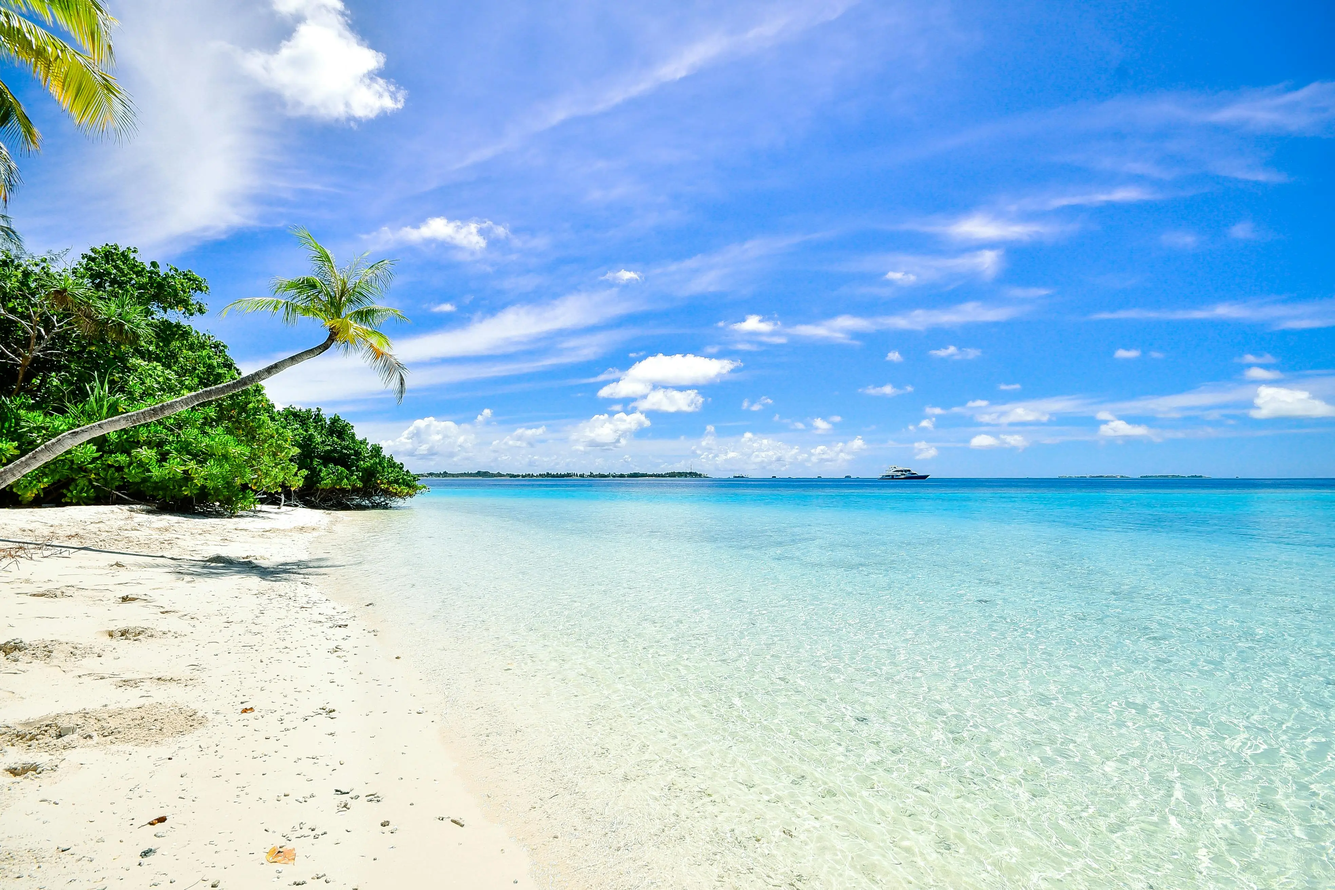
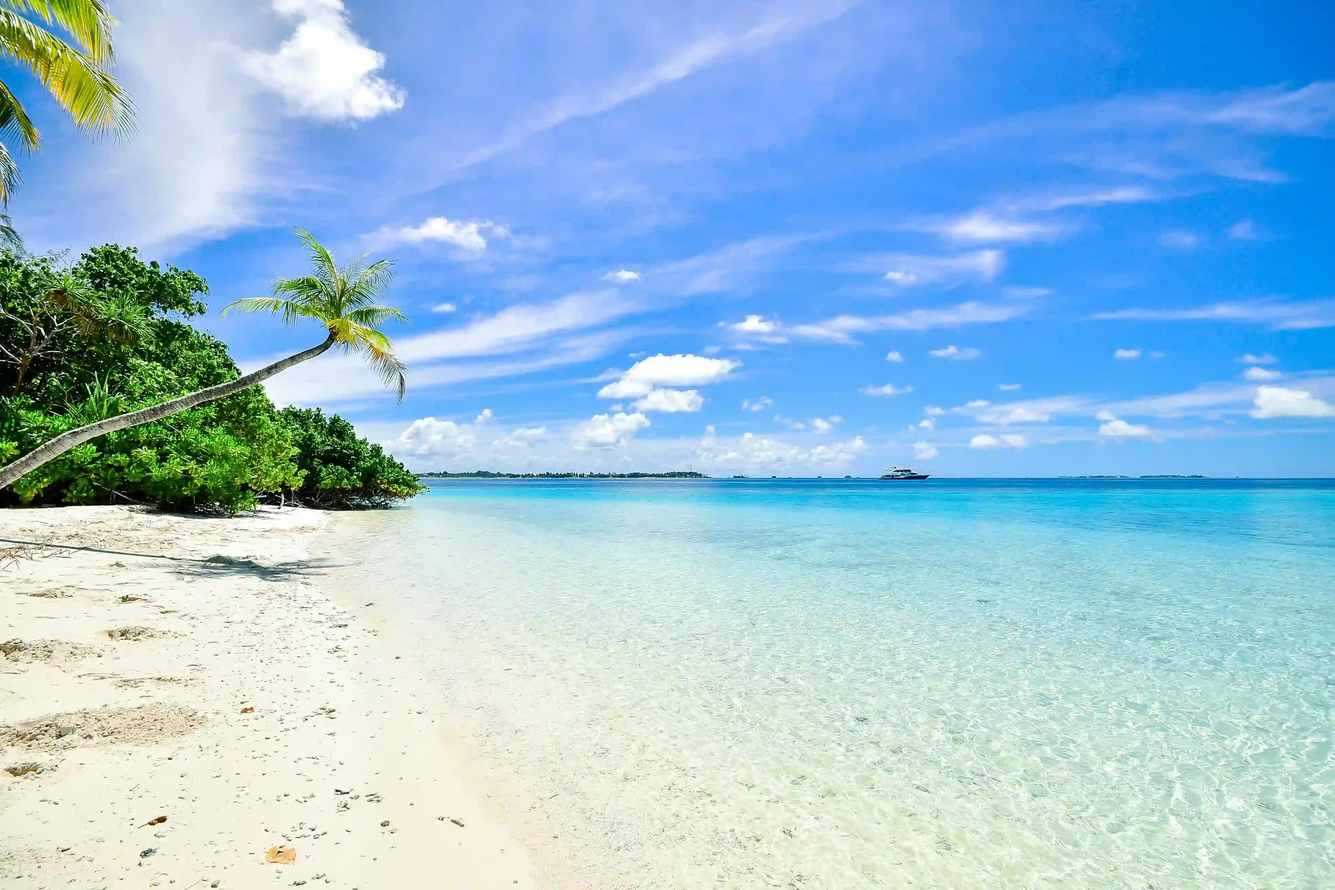
Fixed Production Build
Added:
+ None.

Removed:
- Redundant ImageHandler import in Portfolio Page.

Changed:
= "use client" to Portfolio Page (production build refuses to build without it).
= Reduced size of "beach" and "sunset" images by around 60%.

diff --git a/src/app/portfolio/page.js b/src/app/portfolio/page.js
@@ -1,4 +1,5 @@
-import ImageHandler from '@/components/ImageHandler'
+"use client"
+
 import styles from '@/styles/Portfolio.module.css'
 import Image from 'next/image'
 
